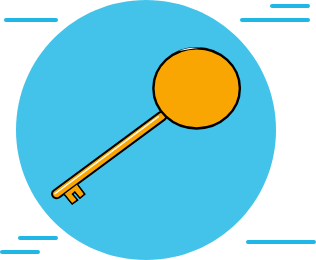
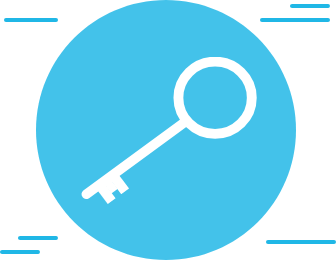
Add NewPasswordScreen

diff --git a/screens/Auth/NewPasswordScreen.js b/screens/Auth/NewPasswordScreen.js
@@ -3,10 +3,10 @@ import {Button, Text, Input, Item, Form, Icon, Label} from 'native-base'
 import {KeyboardAvoidingView, Image, TouchableOpacity, View} from 'react-native'
 import Page from '../../components/Page'
 import styled from 'styled-components/native'
-import {forgotPassword} from '../../adapters/auth'
+import {forgotPasswordSubmit} from '../../adapters/auth'
 import colors from '../../constants/Colors'
 import {buttonStyle, buttonTextStyle, labelStyle, inputStyle} from '../../constants/Style'
-import IconKey from "../../assets/images/icon-key-3x.png"
+import IconLocker from "../../assets/images/icon-locker-3x.png"
 
 const Header = styled.View`
     justifyContent: center;
@@ -25,9 +25,11 @@ const Footer = styled.View`
     justify-content: center;
 `
 
-export default class ForgotPasswordScreen extends React.Component {
+export default class NewPasswordScreen extends React.Component {
     state = {
-        email: ''
+        email: '',
+        password: '',
+        code: ''
     }
 
     onTextChange = (key, value) => {
@@ -37,11 +39,12 @@ export default class ForgotPasswordScreen extends React.Component {
     }
 
     forgotPassword = async () => {
-        try {
-            await forgotPassword(this.state.email)
-            this.props.navigation.navigate('NewPassword', {email: this.state.email})
-        } catch (e) {
-            console.error(e)
+        try{
+            await forgotPasswordSubmit(this.state.email, this.state.code, this.state.password)
+            this.props.navigation.navigate('Login')
+        }
+        catch (e) {
+         console.error(e)
         }
     }
 
@@ -61,10 +64,13 @@ export default class ForgotPasswordScreen extends React.Component {
                               style={{color: '#FFF', fontSize: 30, marginLeft: 20, marginBottom: 20}}/>
                     </TouchableOpacity>
                     <Header>
-                        <Image source={IconKey}
+                        <Image source={IconLocker}
                                resizeMode='contain'
                                style={{height: 120}}/>
-                        <HeaderText>Change Password</HeaderText>
+                        <HeaderText>Forgot Password?</HeaderText>
+                        <Text style={{color: colors.air, marginTop: 16, fontSize: 15}}>
+                            Don't you worry, we got you.
+                        </Text>
                     </Header>
                 </View>
                 <KeyboardAvoidingView style={{flex: 1}}
@@ -72,23 +78,35 @@ export default class ForgotPasswordScreen extends React.Component {
                                       keyboardVerticalOffset={20}>
                     <Form style={{flex: 1, justifyContent: 'space-around', marginRight: 15}}>
                         <Item floatingLabel>
-                            <Label style={labelStyle}>Email address</Label>
+                            <Label style={labelStyle}>New Password</Label>
                             <Input style={inputStyle}
-                                   autoCapitalize='none'
-                                   returnKeyType='send'
-                                   keyboardType='email-address'
-                                   textContentType='emailAddress'
                                    autoCorrect={false}
-                                   value={this.state.email}
-                                   onSubmitEditing={this.forgotPassword}
-                                   onChangeText={(val) => this.onTextChange('email', val)}/>
+                                   secureTextEntry
+                                   textContentType='password'
+                                   value={this.state.password}
+                                   returnKeyType='next'
+                                   blurOnSubmit={false}
+                                   onSubmitEditing={() => this.codeInput.wrappedInstance.focus()}
+                                   onChangeText={(val) => this.onTextChange('password', val)}/>
+                        </Item>
 
+                        <Item floatingLabel>
+                            <Label style={labelStyle}>Verification Code</Label>
+                            <Input style={inputStyle}
+                                   getRef={input => this.codeInput = input}
+                                   autoCorrect={false}
+                                   returnKeyType='done'
+                                   keyboardType='number-pad'
+                                   textContentType='none'
+                                   value={this.state.code}
+                                   onSubmitEditing={this.forgotPassword}
+                                   onChangeText={(val) => this.onTextChange('code', val)}/>
                         </Item>
                     </Form>
                 </KeyboardAvoidingView>
                 <Footer>
                     <Button rounded light onPress={this.forgotPassword} style={buttonStyle}>
-                        <Text style={buttonTextStyle}>{'Send'.toUpperCase()}</Text>
+                        <Text style={buttonTextStyle}>{'Done'.toUpperCase()}</Text>
                     </Button>
                 </Footer>
             </Page>

diff --git a/navigation/AuthNavigator.js b/navigation/AuthNavigator.js
@@ -6,11 +6,13 @@ import VerifyCodeScreen from '../screens/Auth/VerifyCodeScreen';
 import LoginScreen from '../screens/Auth/LoginScreen';
 import ForgotPasswordScreen from '../screens/Auth/ForgotPasswordScreen';
 import WelcomeScreen from '../screens/Auth/WelcomeScreen';
+import NewPasswordScreen from "../screens/Auth/NewPasswordScreen"
 
 export default createStackNavigator({
     Welcome: WelcomeScreen,
     Login: LoginScreen,
     ForgotPassword: ForgotPasswordScreen,
+    NewPassword: NewPasswordScreen,
     Register: RegisterScreen,
     Verify: VerifyCodeScreen,
 }, {

diff --git a/screens/Auth/LoginScreen.js b/screens/Auth/LoginScreen.js
@@ -66,8 +66,13 @@ export default class LoginScreen extends React.Component {
     }
 
     login = async () => {
-        await login(this.state.email, this.state.password)
-        this.props.navigation.navigate('AuthLoading', {email: this.state.email})
+        try {
+            await login(this.state.email, this.state.password)
+            this.props.navigation.navigate('AuthLoading', {email: this.state.email})
+        }
+        catch (e) {
+            console.error(e)
+        }
     }
 
     forgotPassword = async () => {
